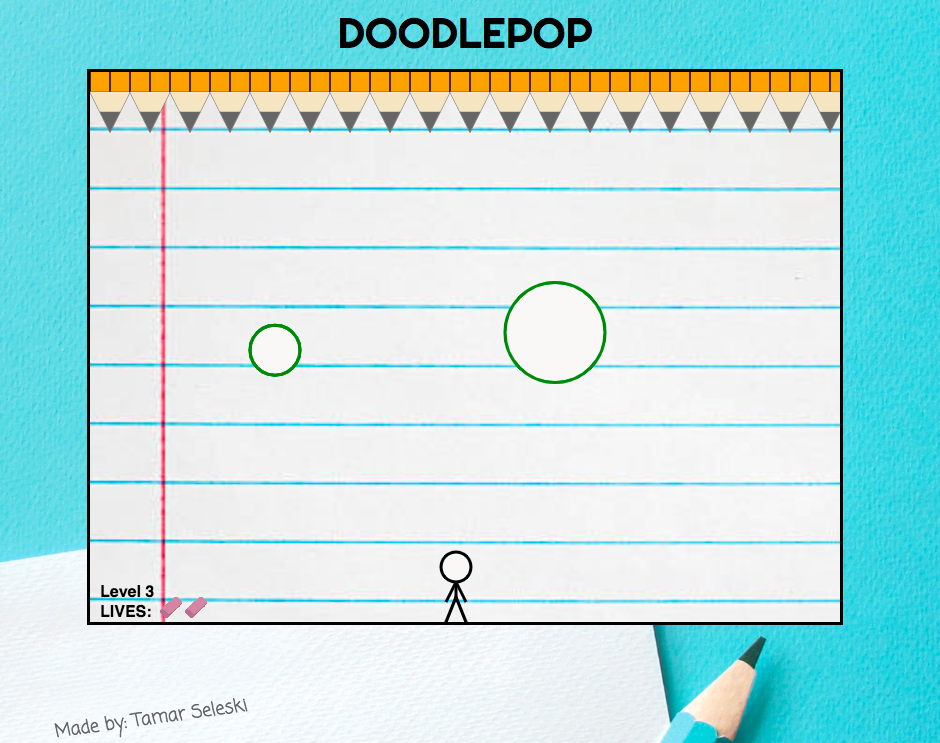
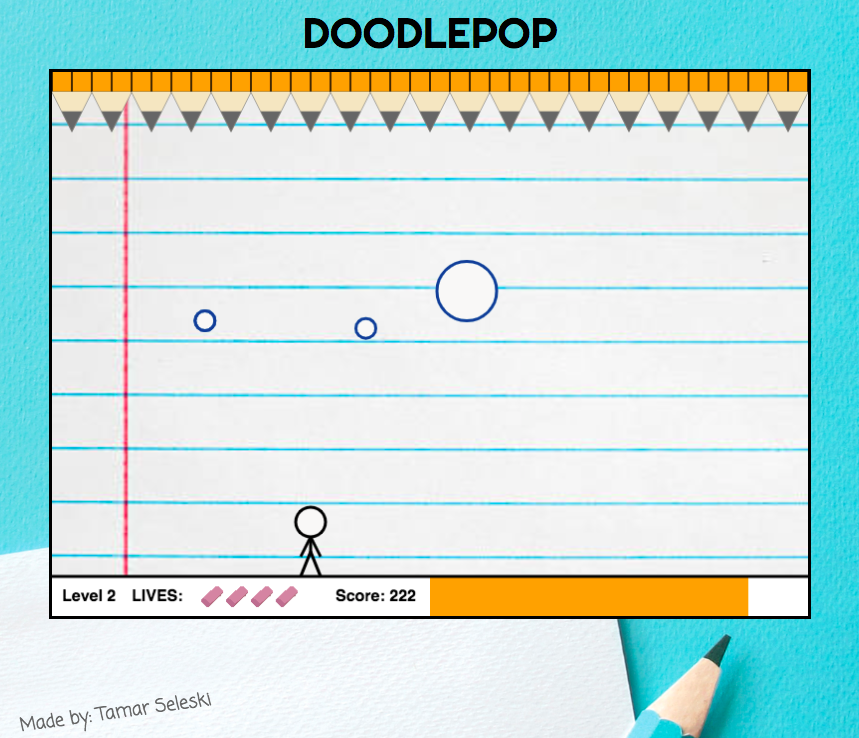
Edit pictures

Changed region(s): [[0.0, 0.0, 1.0, 1.0], [0.0303, 0.935, 0.2724, 0.9973], [0.1211, 0.0, 0.1816, 0.0623]]

diff --git a/index.html b/index.html
@@ -80,7 +80,7 @@
 
 				<div class="box alt container">
 					<section class="feature left">
-						<a href="https://just-note.herokuapp.com/" class="image icon fa-sticky-note"><img class="evernote-img" src="images/justnote.png" alt="" /></a>
+						<a href="https://just-note.herokuapp.com/" class="image icon fa-sticky-note"><img class="evernote-img" src="images/home_page.png" alt="" /></a>
 						<div class="content">
 							<h3>JustNote</h3>
 							<p>Single-page note-taking web application. Built with Rails, React, Redux, Javascript, and PostgreSQL. Inspired by Evernote. </p>
@@ -91,7 +91,7 @@
 						</div>
 					</section>
 					<section class="feature right">
-						<a href="#" class="image icon fa-gamepad"><img class="doodlepop-img" src="images/doodlepopsq.png" alt="" /></a>
+						<a href="#" class="image icon fa-gamepad"><img class="doodlepop-img" src="images/doodlepop.png" alt="" /></a>
 						<div class="content">
 							<h3>DoodlePop</h3>
 							<p>An interactive bubble popping game with six levels. Built with Javascript and HTML5 Canvas. </p>

diff --git a/assets/css/main.css b/assets/css/main.css
@@ -2717,11 +2717,11 @@ input, select, textarea {
 /* Header */
 
 	#header {
-		background-attachment: scroll,							scroll,					fixed;
-		background-image: url("images/top-1600.svg"), url("../../images/blurry.jpg"), url("../../images/header.jpg");
-		background-position: bottom center,					top left,				center center;
-		background-repeat: repeat-x,						repeat,					no-repeat;
-		background-size: 3200px 460px,					3200px 1080px,					cover;
+		background-attachment: scroll,							scroll;
+		background-image: url("images/top-1600.svg"), url("../../images/blurry.jpg");
+		background-position: bottom center,					top left;
+		background-repeat: repeat-x,						repeat;
+		background-size: 3200px 460px,					3200px 1080px;
 		color: rgba(255, 255, 255, 0.8);
 		/* color: #4c4e51; */
 		padding: 10em 0 0em 0;
@@ -2817,6 +2817,10 @@ input, select, textarea {
 			font-size: 1.5em;
 			line-height: 1.5em;
 			margin: 0.25em 0 0 0;
+		}
+
+		.languages {
+			margin-left: 30px;
 		}
 
 		.languages .icons {
